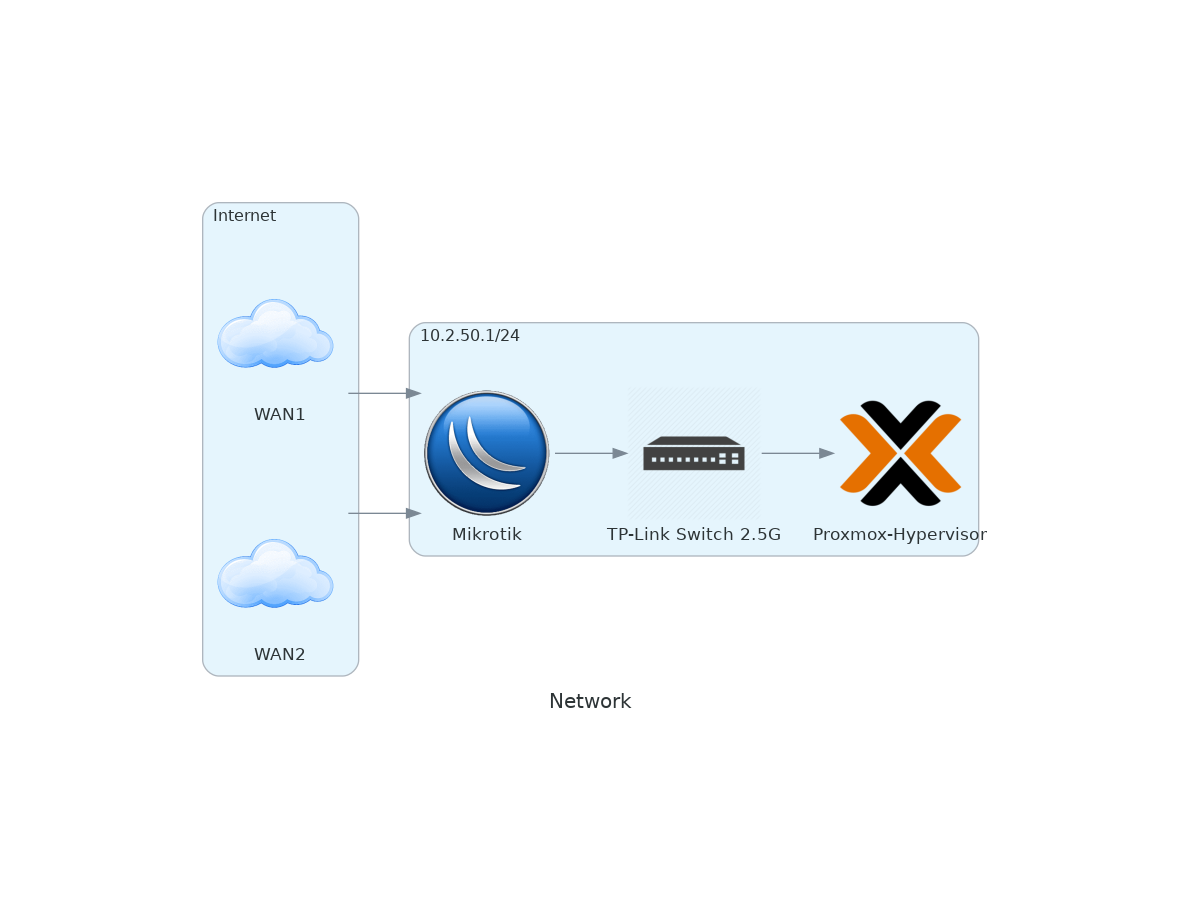
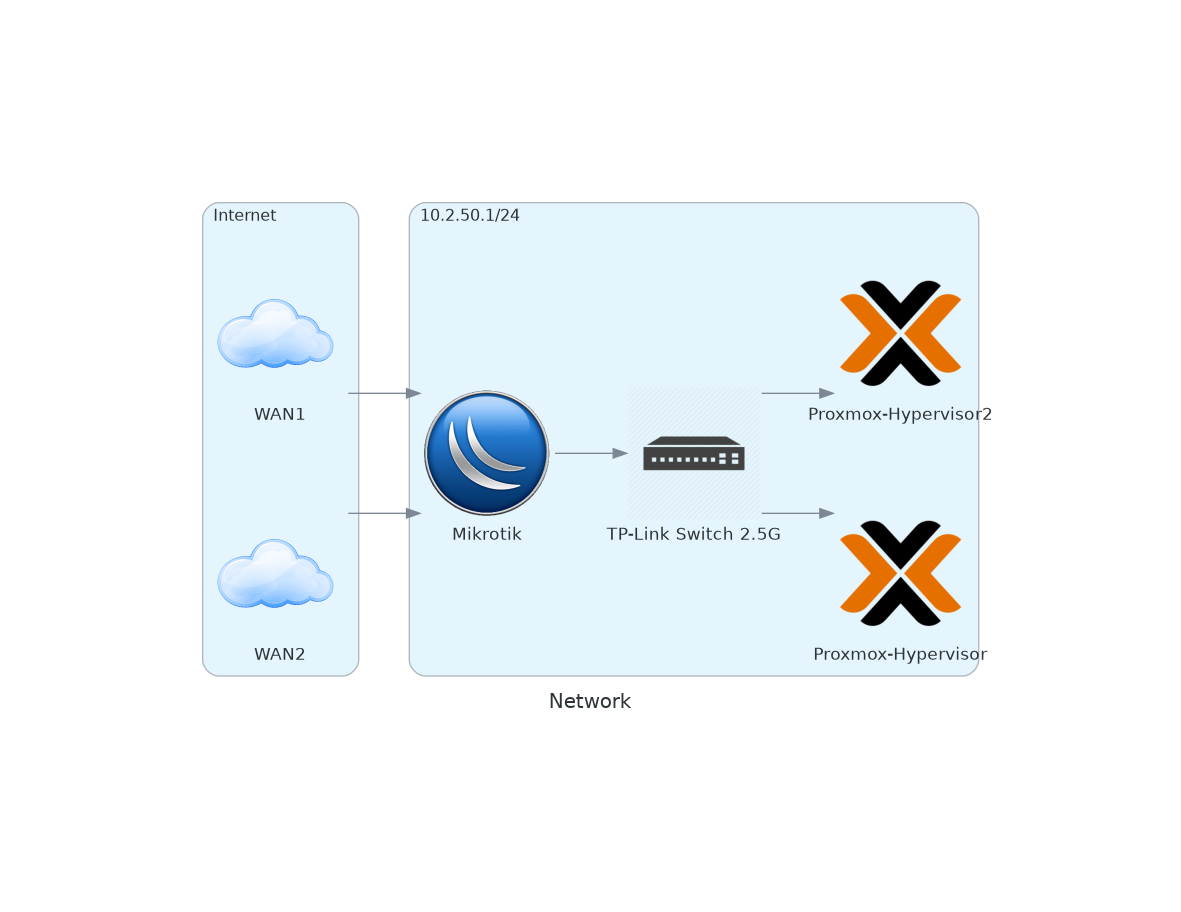
updated diagrams

Changed region(s): [[0.3353, 0.2149, 0.8535, 0.7675], [0.1829, 0.2149, 0.2439, 0.2456]]

diff --git a/src/homelab.py b/src/homelab.py
@@ -21,7 +21,7 @@ with Diagram("Network", show=False, graph_attr=graph_attr ):
         wan2 = Custom("WAN2", "img/wan.png")
     with Cluster("10.2.50.1/24"):    
         mikrotik = Custom("Mikrotik","img/mikrotik.png")
-        [wan1,wan2] >> mikrotik >> Switch("TP-Link Switch 2.5G") >> Pve("Proxmox-Hypervisor")
+        [wan1,wan2] >> mikrotik >> Switch("TP-Link Switch 2.5G") >> [Pve("Proxmox-Hypervisor"), Pve("Proxmox-Hypervisor2")]
 
 with Diagram("Apps", show=False, graph_attr=graph_attr):
     with Cluster("Proxmox"):
@@ -32,10 +32,39 @@ with Diagram("Apps", show=False, graph_attr=graph_attr):
             immich =  Custom ("Immich", "img/immich.png")
             traefik1 = Traefik("Traefik-1")
             dockerhost1 = [traefik1, pihole, openspeedtest, immich]
+        Ubuntu("Docker Host 1") - dockerhost1
+        truenas
+    with Cluster("Proxmox2"):
         with Cluster("Docker Host 2"): 
             unifi =  Custom ("Unifi Network Controller", "img/unifi.png")
             traefik2 = Traefik("Traefik-2")
             dockerhost2 = [traefik2, unifi]
-        Ubuntu("Docker Host 1") - dockerhost1
         Ubuntu("Docker Host 2") - dockerhost2
-        truenas
+
+with Diagram("Homelab", show=False, graph_attr=graph_attr):
+    with Cluster("Homelab"):
+        with Cluster("Internet"):
+            wan1 = Custom("WAN1", "img/wan.png")
+            wan2 = Custom("WAN2", "img/wan.png")
+        with Cluster("10.2.50.1/24"):    
+            mikrotik = Custom("Mikrotik","img/mikrotik.png")
+            switch = Switch("TP-Link Switch 2.5G")
+            ap = Custom("Unifi AP", "img/unifiap-u6-lite.png")
+            with Cluster("Proxmox"):
+                truenas = Custom("Truenas Scale", "img/truenas.png")
+                with Cluster("Docker Host 1"):
+                    pihole =  Custom ("Pihole", "img/pihole.png")
+                    openspeedtest =  Custom ("Open Speed Test", "img/openspeedtest.png")
+                    immich =  Custom ("Immich", "img/immich.png")
+                    traefik1 = Traefik("Traefik-1")
+                    dockerhost1 = [traefik1, pihole, openspeedtest, immich]
+                switch - Ubuntu("Docker Host 1") - dockerhost1
+                switch - truenas
+            with Cluster("Proxmox2"):
+                with Cluster("Docker Host 2"): 
+                    unifi =  Custom ("Unifi Network Controller", "img/unifi.png")
+                    traefik2 = Traefik("Traefik-2")
+                    dockerhost2 = [traefik2, unifi]
+                switch - Ubuntu("Docker Host 2") - dockerhost2
+            [wan1,wan2] >> mikrotik >> switch >> ap
+            
